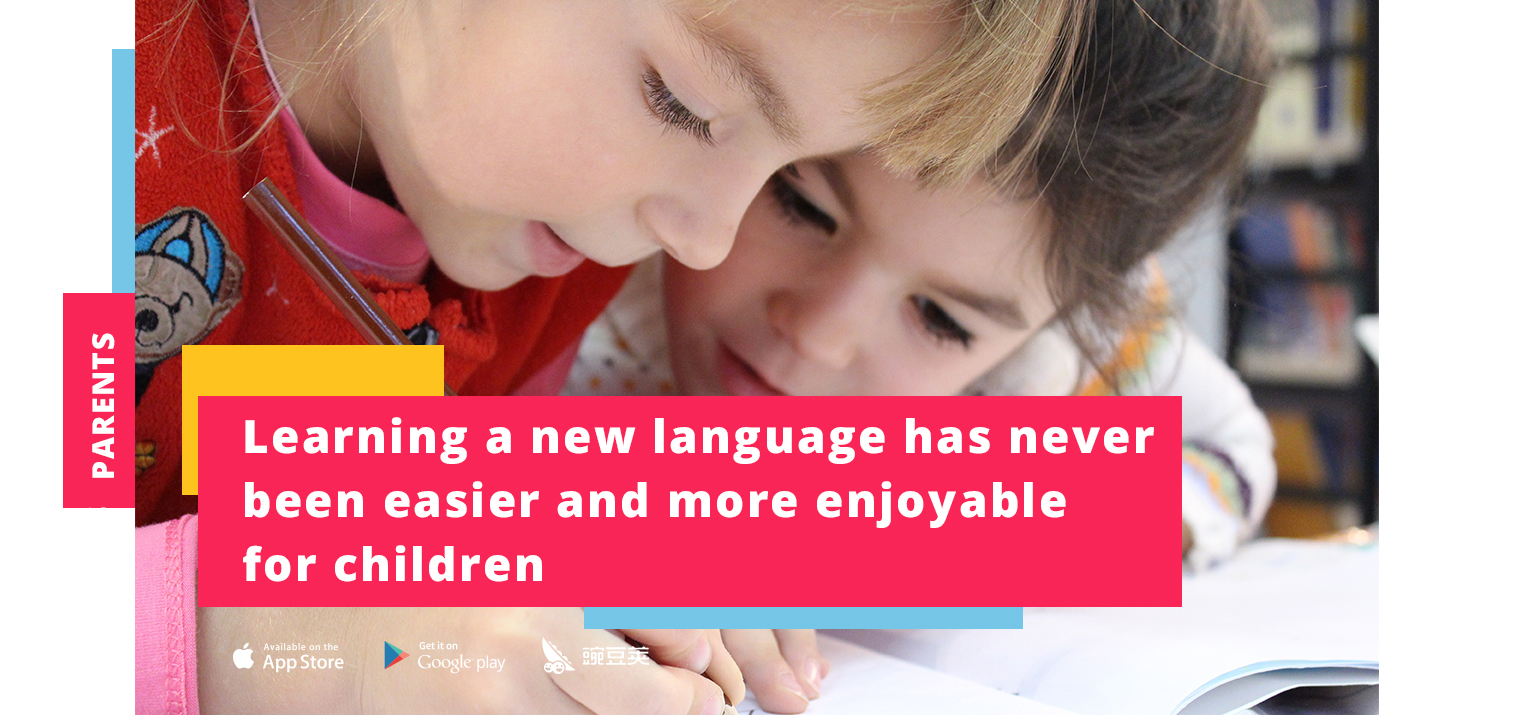
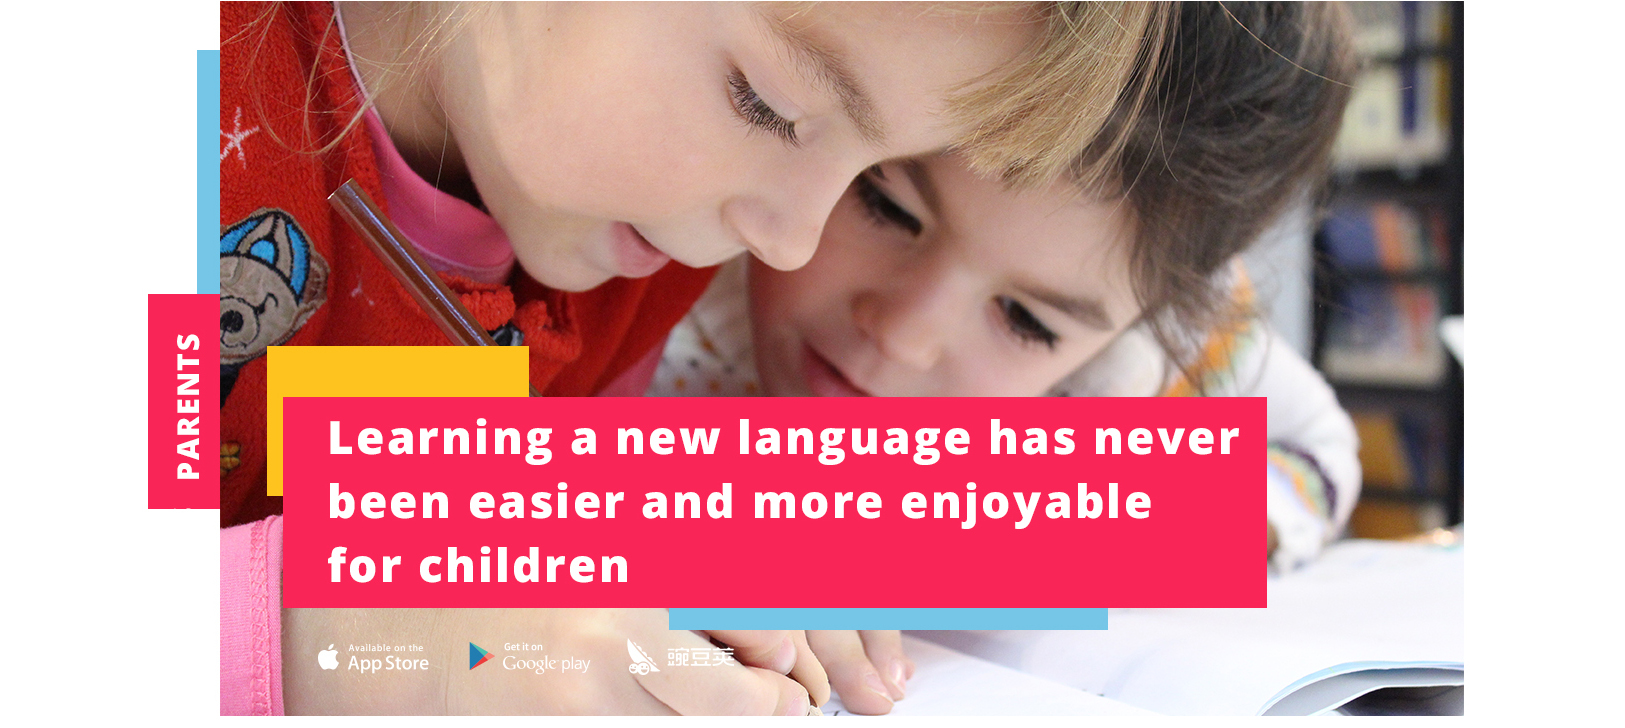
header image adjustments

diff --git a/public/css/style.css b/public/css/style.css
@@ -549,6 +549,12 @@ div.tparrows {
     color: #fa2557;
 }
 
+/*.main-page-container.partners {*/
+    /*background-image: url('../assets/images/contact-bg-1.png'), url('../assets/images/contact-bg-2.png');*/
+    /*background-repeat: no-repeat;*/
+    /*background-position: left center, right center;*/
+/*}*/
+
 .educators .main-page-title, .partners .main-page-title {
     color: #75c6e7;
 }

diff --git a/public/assets/js/template.js b/public/assets/js/template.js
@@ -280,8 +280,8 @@
 
 			$('.slider-banner-container .slider-banner-fullwidth-big-height').show().revolution({
 				delay:8000,
-				startwidth:1140,
-				startheight:750,
+				startwidth:1300,
+				startheight:728,
 
 				navigationArrows:"solo",
 
